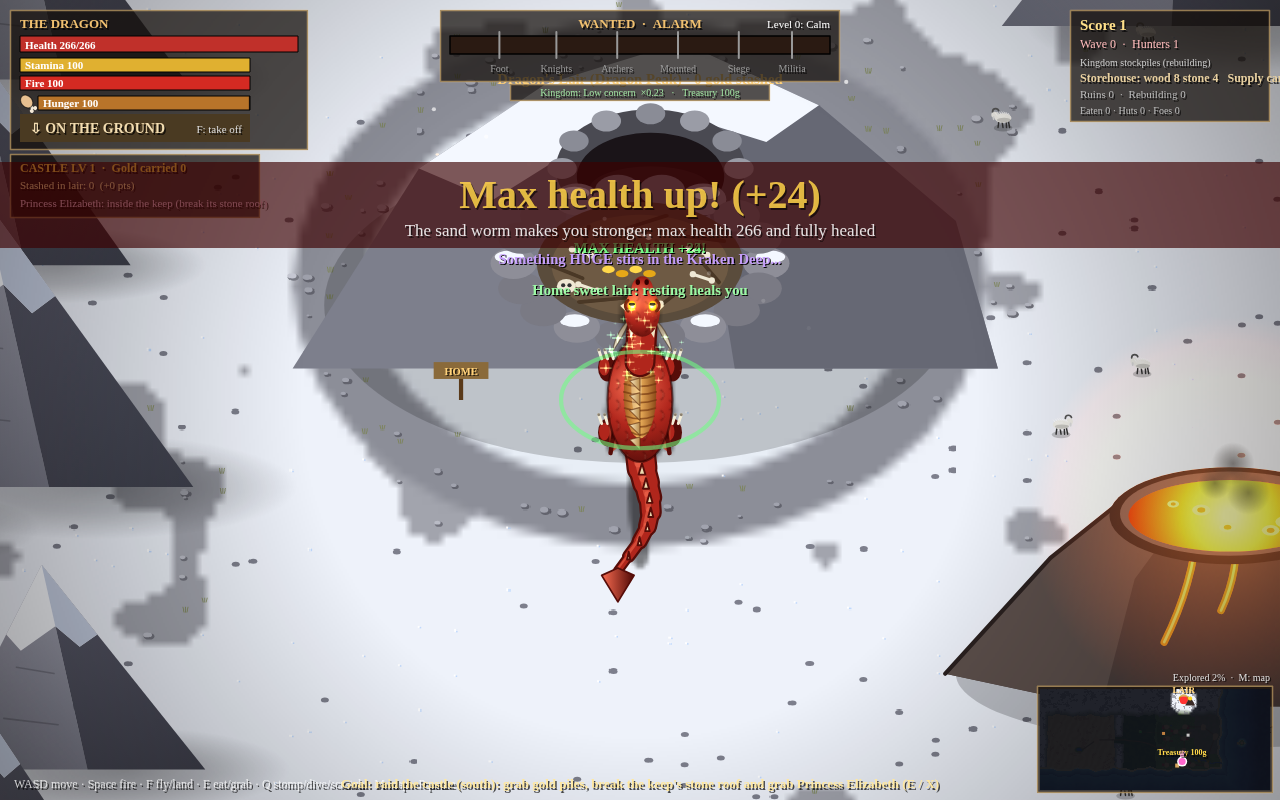
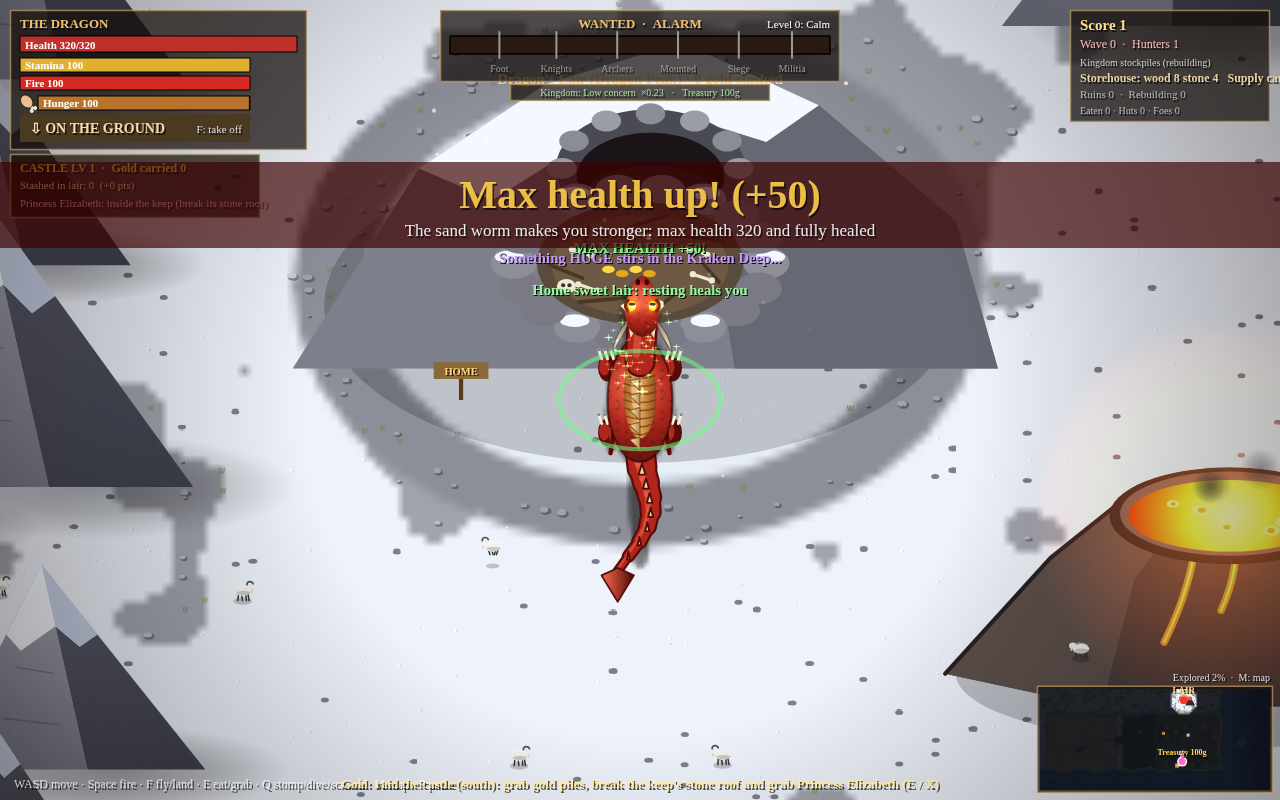
Kraken and sand worm give +50 max health each; Glutton: every whale's worth of food (scaling 1, 2, 3... whales) gives +5 max health, with a progress bar in the pause menu and Tally; capped health bar

diff --git a/index.html b/index.html
@@ -3286,9 +3286,10 @@ function pmBtn(x,y,w,h,label,f,on,col){panel(x,y,w,h);if(on){ctx.strokeStyle='#f
 function drawPM(){ctx.setTransform(DPR,0,0,DPR,0,0);const S=SAFE,touch=TOUCH.on;PM.hit=[];
   ctx.fillStyle='rgba(6,4,10,.66)';ctx.fillRect(0,0,VW,VH);
   const aw=VW-S.l-S.r,ah=VH-S.t-S.b,W=Math.min(aw-16,PM.scr==='tally'?680:600),x0=S.l+(aw-W)/2,cx=x0+W/2;
-  if(PM.scr==='main'){const rh=touch?46:38,H=86+PM_MAIN.length*(rh+8)+44,y0=S.t+Math.max(8,(ah-H)/2);panel(x0,y0,W,H);
+  if(PM.scr==='main'){const rh=touch?46:38,H=86+PM_MAIN.length*(rh+8)+72,y0=S.t+Math.max(8,(ah-H)/2);panel(x0,y0,W,H);
     txt('PAUSED',cx,y0+44,36,'#ffd24a','center');
     PM_MAIN.forEach(([l,a],i)=>pmBtn(x0+30,y0+70+i*(rh+8),W-60,rh,l,()=>{PM.sel=i;pmAct(a);},PM.sel===i));
+    if(typeof drawGlutBar==='function')drawGlutBar(x0+30,y0+H-52,W-60,18);
     txt(touch?'Tap a choice · II resumes':'↑/↓ + Enter (A) choose · P / Esc / Start resume · R / Back restart',cx,y0+H-16,touch?13:12,'#bbb','center',false);}
   else if(PM.scr==='tally')drawTallyScreen(x0,W,S,ah,touch);
   else drawSlots(x0,W,S,ah,touch);
@@ -3302,7 +3303,8 @@ function drawTallyScreen(x0,W,S,ah,touch){const cx=x0+W/2,y0=S.t+8,H=ah-16;panel
   const tg=tallyTotal('game'),ta=tallyTotal('all');
   txt(`Total gobbled / defeated:  this game ${tg}  ·  all-time ${ta}`,cx,y0+52,fs,'#fff','center');
   txt(`♛ Princess Elizabeth captured (not a kill, she's never hurt!):  this game ${TALLY.prGame}  ·  all-time ${TALLY.prAll}`,cx,y0+70,sm?10.5:12.5,'#ffb0dc','center',false);
-  const colA=x0+W-24,colG=x0+W-(sm?96:130),ly=y0+92;txt('This game',colG,ly,sm?11:13,'#f0c070','right');txt('All-time',colA,ly,sm?11:13,'#f0c070','right');
+  if(typeof drawGlutBar==='function')drawGlutBar(x0+16,y0+78,W-32,16);
+  const colA=x0+W-24,colG=x0+W-(sm?96:130),ly=y0+112;txt('This game',colG,ly,sm?11:13,'#f0c070','right');txt('All-time',colA,ly,sm?11:13,'#f0c070','right');
   const rh=touch?26:22,top=ly+8,foot=touch?56:46,listH=H-(top-y0)-foot,vis=Math.max(3,Math.floor(listH/rh));PM.vis=vis;PM.rh=rh;
   const rows=tallyRows(),mx=Math.max(0,rows.length-vis);PM.scroll=clamp(PM.scroll,0,mx);
   PM.hit.push({x:x0,y:top,w:W,h:vis*rh,list:1});
@@ -3640,7 +3642,7 @@ SFX_DEF.scratch=(a,B,o,t)=>{for(let i=0;i<3;i++)nz(a,B,o,t+i*.055,.09,'highpass'
 let HOARD_CARRY=null;
 {const _nl=nextLevel;nextLevel=function(){
   const stash=Math.max(0,Math.round(G.stash||0));
-  HOARD_CARRY={stash,raid:{n:RAID.n,thr:RAID.thr},trophies:TROPHIES.slice(),hpBonus:D.hpBonus||0,hpUps:D.hpUps||0};
+  HOARD_CARRY={stash,raid:{n:RAID.n,thr:RAID.thr},trophies:TROPHIES.slice(),hpBonus:D.hpBonus||0,hpUps:D.hpUps||0,feastBonus:D.feastBonus||0,food:D.food||0,glutN:D.glutN||0};
   G.bank-=stash*5; // the carried hoard keeps scoring 5/gold from the new level's score, so don't bank it twice
   let r;try{r=_nl.apply(this,arguments);}finally{HOARD_CARRY=null;}
   if(stash>0){const msg=`Hoard carried over: ${stash} gold`;G.hoardCarry=stash;
@@ -3648,6 +3650,7 @@ let HOARD_CARRY=null;
     float(LAIR.x,LAIR.y-80,msg,'#ffd84a');if(typeof showToast==='function')showToast('💰 '+msg);}
   return r;};}
 {const _ng=newGame;newGame=function(){const c=HOARD_CARRY;const r=_ng.apply(this,arguments);
+  if(c){D.food=c.food||0;D.glutN=c.glutN||0;D.feastBonus=c.feastBonus||0;}
   if(c&&c.hpBonus>0){D.hpBonus=c.hpBonus;D.hpUps=c.hpUps;D.baseMaxHp=D.maxHp;D.maxHp+=c.hpBonus;D.hp=D.maxHp;} // monster-feast max-health bonus stays on the same life
   if(c){G.stash=c.stash;G.hoardCarry=c.stash;if(typeof HOARD!=='undefined'){HOARD.shown=c.stash;HOARD.bump=0;}
     RAID.n=c.raid.n;RAID.thr=c.raid.thr;RAID.cd=Math.max(RAID.cd,45);RAID.cur=null; // thresholds already passed stay passed
@@ -3675,16 +3678,51 @@ function drawFireBar(x,y,w,h){bar(x,y,w,h,D.fire/(D.maxFire||100),fireBarCol(),f
 {const _dt=drawTouch;drawTouch=function(){_dt.apply(this,arguments);if(!TOUCH.on||scene!=='play'||!G||G.over||G.won||!TOUCH.btns)return;const o=TOUCH.btns.find(b=>b.id==='fire');if(!o||D.maxFire===undefined)return;
   const f=clamp(D.fire/D.maxFire,0,1);ctx.lineWidth=6;ctx.strokeStyle='rgba(0,0,0,.45)';ctx.beginPath();ctx.arc(o.x,o.y,o.r+7,0,TAU);ctx.stroke();
   ctx.strokeStyle=fireBarCol();ctx.beginPath();ctx.arc(o.x,o.y,o.r+7,-Math.PI/2,-Math.PI/2+TAU*f);ctx.stroke();};}
-// ======================= MONSTER FEAST: eating the giant squid (kraken) or a sand worm permanently raises max health on this life =======================
-const MH={frac:.10};
-function maxHpUp(what,x,y){const gain=Math.max(10,Math.round(D.maxHp*MH.frac));D.hpBonus=(D.hpBonus||0)+gain;D.hpUps=(D.hpUps||0)+1;D.maxHp+=gain;D.hp=D.maxHp;D.healFx=1;
+// ======================= MONSTER FEAST + GLUTTON: permanent max-health growth on this life =======================
+// Eating the giant squid (kraken) or a sand worm: +50 max health each, plus a full heal.
+// Glutton: food eaten (sized by how big / filling each thing is) fills "whale's worth" milestones. Each one gives +5 max health;
+// the 1st needs 1 whale's worth, the 2nd 2 more whales, the 3rd 3 more... (a real whale = exactly one whale's worth).
+// All of it stays on the same life across castle levels and resets on death / new game (D.* fields are in saves).
+const MH={feast:50};
+const GLUT={gain:5};
+// food values (≈ size / how filling it is); the milestone unit is one whale
+const FOOD={whale:75,
+  villager:10,shopper:10,farmer:10,logger:10,miner:10,mason:10,trader:10,keeper:10,taxman:10,carter:10,militia:10,hunter:18,sailor:10,islander:12,pirate:12,crew:10,
+  foot:12,knight:18,archer:12,cavalry:40,champ:30,
+  chicken:5,rabbit:6,crow:3,sparrow:2,gull:3,duck:5,goose:6,hawk:4,eagle:6,fish:4,school:5,lakeschool:5,crab:3,beaver:7,lizard:4,snake:5,dscorp:4,
+  fox:8,dfox:8,wolf:12,goat:12,mgoat:15,sheep:14,pig:16,boar:16,deer:20,seal:22,iseal:24,shark:20,horse:24,carthorse:24,cow:26,camel:30,cougar:32,bear:40,
+  sandworm:100,squid:150};
+const WHALE=FOOD.whale;
+function foodOf(k){return FOOD[k]!==undefined?FOOD[k]:(HEAL[k]||SEAHEAL[k]||10);}
+function foodKeyU(u){if(!u)return null;if(u.type==='sea')return u.kind;if(u.type==='knight'&&u.champ)return'champ';return typeof tallyKeyU==='function'?tallyKeyU(u):(u.species||u.type);}
+// milestone n (1-based) needs n whales; total food for the first n milestones = WHALE*n(n+1)/2
+function glutCum(n){return WHALE*n*(n+1)/2;}
+function glutProg(){const n=D.glutN||0,have=Math.max(0,(D.food||0)-glutCum(n))/WHALE,need=n+1;return{n,have:Math.min(have,need),need,frac:Math.min(1,have/need)};}
+function glutLine(){const p=glutProg();return`🐋 Glutton · Next +${GLUT.gain} max health: ${Math.floor(p.frac*100)}%  ·  earned +${p.n*GLUT.gain}`;}
+function drawGlutBar(x,y,w,h){const p=glutProg();ctx.fillStyle='rgba(0,0,0,.45)';ctx.fillRect(x,y,w,h);ctx.fillStyle='#4fb3e8';ctx.fillRect(x+1,y+1,(w-2)*p.frac,h-2);
+  ctx.strokeStyle='rgba(255,255,255,.5)';ctx.lineWidth=1;ctx.strokeRect(x+.5,y+.5,w-1,h-1);txt(glutLine(),x+w/2,y+h-4,Math.min(12.5,h-3),'#fff','center',false);}
+function mhBanner(text,sub,t){const b=G.banner;
+  if(b&&b.t>1.2&&/^Max health up/.test(b.text||'')){b.sub=(b.sub?b.sub+'  ·  ':'')+text+' (now '+D.maxHp+')';return;}
+  if(b&&b.t>1.2&&!/^A whale/.test(b.text||'')){if(typeof showToast==='function')showToast('❤ '+text);return;}
+  G.banner={text,sub,t:t||4.5};}
+function maxHpUp(what,x,y){const gain=MH.feast;D.hpBonus=(D.hpBonus||0)+gain;D.feastBonus=(D.feastBonus||0)+gain;D.hpUps=(D.hpUps||0)+1;D.maxHp+=gain;D.hp=D.maxHp;D.healFx=1;
   G.banner={text:`Max health up! (+${gain})`,sub:`${what} makes you stronger: max health ${D.maxHp} and fully healed`,t:4.5};
   float(D.x,D.y-heightOf()-130,`MAX HEALTH +${gain}!`,'#7aff8a');sparkle(D.x,D.y-heightOf(),30);if(typeof SFX!=='undefined'&&SFX.play)SFX.play('coin',D.x,D.y,1);}
-{const _ng=newGame;newGame=function(){const r=_ng.apply(this,arguments);if(D){D.baseMaxHp=D.maxHp-(D.hpBonus||0);if(!D.hpBonus){D.hpBonus=0;D.hpUps=0;}}return r;};}
-{const _es=eatSea;eatSea=function(u){const was=u&&u.dead,k=u&&u.kind;const r=_es.apply(this,arguments);if(u&&k==='squid'&&!was&&u.dead){float(u.x,u.y-60,'GULP! Calamari!','#ffd27a');maxHpUp('The giant squid');}return r;};}
-{const _eu=eatUnit;eatUnit=function(u){const was=u&&u.dead,s=u&&u.species;const r=_eu.apply(this,arguments);if(u&&s==='sandworm'&&!was&&u.dead){float(u.x,u.y-80,'GULP! Slurped the sand worm!','#ffd27a');maxHpUp('The sand worm');}return r;};}
-// health bar grows with the bonus (230px at base, longer per feast, capped so it fits the screen)
-function hpBarW(){const base=D.baseMaxHp||D.maxHp;return Math.round(Math.min(230*1.8,230*D.maxHp/base));}
+function glutEat(food){if(!D||G.over||!(food>0))return;D.food=Math.round(((D.food||0)+food)*100)/100;
+  while(D.food>=glutCum((D.glutN||0)+1)){D.glutN=(D.glutN||0)+1;const n=D.glutN;D.hpBonus=(D.hpBonus||0)+GLUT.gain;D.maxHp+=GLUT.gain;D.hp=Math.min(D.maxHp,D.hp+GLUT.gain);D.healFx=Math.max(D.healFx||0,.6);
+    mhBanner(`A whale's worth eaten! Max health +${GLUT.gain}`,`Max health ${D.maxHp}  ·  keep feasting: the next +${GLUT.gain} takes even more food`,3.5);
+    float(D.x,D.y-heightOf()-110,`WHALE'S WORTH! +${GLUT.gain} MAX HP`,'#9aff7a');sparkle(D.x,D.y-heightOf(),16);if(typeof SFX!=='undefined'&&SFX.play)SFX.play('gulp',D.x,D.y,.8);}}
+{const _ng=newGame;newGame=function(){const r=_ng.apply(this,arguments);if(D){D.baseMaxHp=D.maxHp-(D.hpBonus||0);if(!D.hpBonus){D.hpBonus=0;D.hpUps=0;D.feastBonus=0;}if(D.food===undefined){D.food=0;D.glutN=0;}}return r;};}
+{const _es=eatSea;eatSea=function(u){const was=u&&u.dead,k=u&&u.kind,n0=u&&u.n;const r=_es.apply(this,arguments);
+  if(u&&k==='squid'&&!was&&u.dead){float(u.x,u.y-60,'GULP! Calamari!','#ffd27a');maxHpUp('The giant squid');}
+  if(u&&((n0!==undefined&&u.n<n0)||(!was&&u.dead)))glutEat(foodOf(k));return r;};}
+{const _eu=eatUnit;eatUnit=function(u){const sea=u&&u.type==='sea',was=u&&u.dead,s=u&&u.species;const r=_eu.apply(this,arguments);
+  if(u&&s==='sandworm'&&!was&&u.dead){float(u.x,u.y-80,'GULP! Slurped the sand worm!','#ffd27a');maxHpUp('The sand worm');}
+  if(u&&!sea&&!was&&u.dead)glutEat(foodOf(foodKeyU(u)));return r;};} // sea units are counted inside eatSea
+{const _eb=tryEatBird;tryEatBird=function(){const live=birds.filter(b=>!b.dead);const r=_eb.apply(this,arguments);let f=0;for(const b of live)if(b.dead)f+=foodOf(b.kind);glutEat(f);return r;};}
+// health bar: grows with the bonus but the on-screen width is capped (the number is always shown in the bar)
+const HPBAR={base:230,max:400};
+function hpBarW(){const base=D.baseMaxHp||D.maxHp,f=Math.max(1,D.maxHp/base);return Math.round(Math.min(HPBAR.max,HPBAR.base*Math.sqrt(f)));}
 // ======================= NORTHERN GOAT HERDS: extra mountain-goat herds (and the mountain lions that hunt them) on the snowy slopes north of the desert =======================
 // Wild animals: eating them never raises the alarm (isWild), they count in the Dragon's Tally, and they respawn slowly.
 const GH={centers:[[-8500,-950],[-6700,-1350],[-4900,-850]],goats:[4,6],lions:2,goatEvery:22,lionEvery:60};

diff --git a/partMH.js b/partMH.js
@@ -1,10 +1,45 @@
-// ======================= MONSTER FEAST: eating the giant squid (kraken) or a sand worm permanently raises max health on this life =======================
-const MH={frac:.10};
-function maxHpUp(what,x,y){const gain=Math.max(10,Math.round(D.maxHp*MH.frac));D.hpBonus=(D.hpBonus||0)+gain;D.hpUps=(D.hpUps||0)+1;D.maxHp+=gain;D.hp=D.maxHp;D.healFx=1;
+// ======================= MONSTER FEAST + GLUTTON: permanent max-health growth on this life =======================
+// Eating the giant squid (kraken) or a sand worm: +50 max health each, plus a full heal.
+// Glutton: food eaten (sized by how big / filling each thing is) fills "whale's worth" milestones. Each one gives +5 max health;
+// the 1st needs 1 whale's worth, the 2nd 2 more whales, the 3rd 3 more... (a real whale = exactly one whale's worth).
+// All of it stays on the same life across castle levels and resets on death / new game (D.* fields are in saves).
+const MH={feast:50};
+const GLUT={gain:5};
+// food values (≈ size / how filling it is); the milestone unit is one whale
+const FOOD={whale:75,
+  villager:10,shopper:10,farmer:10,logger:10,miner:10,mason:10,trader:10,keeper:10,taxman:10,carter:10,militia:10,hunter:18,sailor:10,islander:12,pirate:12,crew:10,
+  foot:12,knight:18,archer:12,cavalry:40,champ:30,
+  chicken:5,rabbit:6,crow:3,sparrow:2,gull:3,duck:5,goose:6,hawk:4,eagle:6,fish:4,school:5,lakeschool:5,crab:3,beaver:7,lizard:4,snake:5,dscorp:4,
+  fox:8,dfox:8,wolf:12,goat:12,mgoat:15,sheep:14,pig:16,boar:16,deer:20,seal:22,iseal:24,shark:20,horse:24,carthorse:24,cow:26,camel:30,cougar:32,bear:40,
+  sandworm:100,squid:150};
+const WHALE=FOOD.whale;
+function foodOf(k){return FOOD[k]!==undefined?FOOD[k]:(HEAL[k]||SEAHEAL[k]||10);}
+function foodKeyU(u){if(!u)return null;if(u.type==='sea')return u.kind;if(u.type==='knight'&&u.champ)return'champ';return typeof tallyKeyU==='function'?tallyKeyU(u):(u.species||u.type);}
+// milestone n (1-based) needs n whales; total food for the first n milestones = WHALE*n(n+1)/2
+function glutCum(n){return WHALE*n*(n+1)/2;}
+function glutProg(){const n=D.glutN||0,have=Math.max(0,(D.food||0)-glutCum(n))/WHALE,need=n+1;return{n,have:Math.min(have,need),need,frac:Math.min(1,have/need)};}
+function glutLine(){const p=glutProg();return`🐋 Glutton · Next +${GLUT.gain} max health: ${Math.floor(p.frac*100)}%  ·  earned +${p.n*GLUT.gain}`;}
+function drawGlutBar(x,y,w,h){const p=glutProg();ctx.fillStyle='rgba(0,0,0,.45)';ctx.fillRect(x,y,w,h);ctx.fillStyle='#4fb3e8';ctx.fillRect(x+1,y+1,(w-2)*p.frac,h-2);
+  ctx.strokeStyle='rgba(255,255,255,.5)';ctx.lineWidth=1;ctx.strokeRect(x+.5,y+.5,w-1,h-1);txt(glutLine(),x+w/2,y+h-4,Math.min(12.5,h-3),'#fff','center',false);}
+function mhBanner(text,sub,t){const b=G.banner;
+  if(b&&b.t>1.2&&/^Max health up/.test(b.text||'')){b.sub=(b.sub?b.sub+'  ·  ':'')+text+' (now '+D.maxHp+')';return;}
+  if(b&&b.t>1.2&&!/^A whale/.test(b.text||'')){if(typeof showToast==='function')showToast('❤ '+text);return;}
+  G.banner={text,sub,t:t||4.5};}
+function maxHpUp(what,x,y){const gain=MH.feast;D.hpBonus=(D.hpBonus||0)+gain;D.feastBonus=(D.feastBonus||0)+gain;D.hpUps=(D.hpUps||0)+1;D.maxHp+=gain;D.hp=D.maxHp;D.healFx=1;
   G.banner={text:`Max health up! (+${gain})`,sub:`${what} makes you stronger: max health ${D.maxHp} and fully healed`,t:4.5};
   float(D.x,D.y-heightOf()-130,`MAX HEALTH +${gain}!`,'#7aff8a');sparkle(D.x,D.y-heightOf(),30);if(typeof SFX!=='undefined'&&SFX.play)SFX.play('coin',D.x,D.y,1);}
-{const _ng=newGame;newGame=function(){const r=_ng.apply(this,arguments);if(D){D.baseMaxHp=D.maxHp-(D.hpBonus||0);if(!D.hpBonus){D.hpBonus=0;D.hpUps=0;}}return r;};}
-{const _es=eatSea;eatSea=function(u){const was=u&&u.dead,k=u&&u.kind;const r=_es.apply(this,arguments);if(u&&k==='squid'&&!was&&u.dead){float(u.x,u.y-60,'GULP! Calamari!','#ffd27a');maxHpUp('The giant squid');}return r;};}
-{const _eu=eatUnit;eatUnit=function(u){const was=u&&u.dead,s=u&&u.species;const r=_eu.apply(this,arguments);if(u&&s==='sandworm'&&!was&&u.dead){float(u.x,u.y-80,'GULP! Slurped the sand worm!','#ffd27a');maxHpUp('The sand worm');}return r;};}
-// health bar grows with the bonus (230px at base, longer per feast, capped so it fits the screen)
-function hpBarW(){const base=D.baseMaxHp||D.maxHp;return Math.round(Math.min(230*1.8,230*D.maxHp/base));}
+function glutEat(food){if(!D||G.over||!(food>0))return;D.food=Math.round(((D.food||0)+food)*100)/100;
+  while(D.food>=glutCum((D.glutN||0)+1)){D.glutN=(D.glutN||0)+1;const n=D.glutN;D.hpBonus=(D.hpBonus||0)+GLUT.gain;D.maxHp+=GLUT.gain;D.hp=Math.min(D.maxHp,D.hp+GLUT.gain);D.healFx=Math.max(D.healFx||0,.6);
+    mhBanner(`A whale's worth eaten! Max health +${GLUT.gain}`,`Max health ${D.maxHp}  ·  keep feasting: the next +${GLUT.gain} takes even more food`,3.5);
+    float(D.x,D.y-heightOf()-110,`WHALE'S WORTH! +${GLUT.gain} MAX HP`,'#9aff7a');sparkle(D.x,D.y-heightOf(),16);if(typeof SFX!=='undefined'&&SFX.play)SFX.play('gulp',D.x,D.y,.8);}}
+{const _ng=newGame;newGame=function(){const r=_ng.apply(this,arguments);if(D){D.baseMaxHp=D.maxHp-(D.hpBonus||0);if(!D.hpBonus){D.hpBonus=0;D.hpUps=0;D.feastBonus=0;}if(D.food===undefined){D.food=0;D.glutN=0;}}return r;};}
+{const _es=eatSea;eatSea=function(u){const was=u&&u.dead,k=u&&u.kind,n0=u&&u.n;const r=_es.apply(this,arguments);
+  if(u&&k==='squid'&&!was&&u.dead){float(u.x,u.y-60,'GULP! Calamari!','#ffd27a');maxHpUp('The giant squid');}
+  if(u&&((n0!==undefined&&u.n<n0)||(!was&&u.dead)))glutEat(foodOf(k));return r;};}
+{const _eu=eatUnit;eatUnit=function(u){const sea=u&&u.type==='sea',was=u&&u.dead,s=u&&u.species;const r=_eu.apply(this,arguments);
+  if(u&&s==='sandworm'&&!was&&u.dead){float(u.x,u.y-80,'GULP! Slurped the sand worm!','#ffd27a');maxHpUp('The sand worm');}
+  if(u&&!sea&&!was&&u.dead)glutEat(foodOf(foodKeyU(u)));return r;};} // sea units are counted inside eatSea
+{const _eb=tryEatBird;tryEatBird=function(){const live=birds.filter(b=>!b.dead);const r=_eb.apply(this,arguments);let f=0;for(const b of live)if(b.dead)f+=foodOf(b.kind);glutEat(f);return r;};}
+// health bar: grows with the bonus but the on-screen width is capped (the number is always shown in the bar)
+const HPBAR={base:230,max:400};
+function hpBarW(){const base=D.baseMaxHp||D.maxHp,f=Math.max(1,D.maxHp/base);return Math.round(Math.min(HPBAR.max,HPBAR.base*Math.sqrt(f)));}

diff --git a/partY.js b/partY.js
@@ -92,9 +92,10 @@ function pmBtn(x,y,w,h,label,f,on,col){panel(x,y,w,h);if(on){ctx.strokeStyle='#f
 function drawPM(){ctx.setTransform(DPR,0,0,DPR,0,0);const S=SAFE,touch=TOUCH.on;PM.hit=[];
   ctx.fillStyle='rgba(6,4,10,.66)';ctx.fillRect(0,0,VW,VH);
   const aw=VW-S.l-S.r,ah=VH-S.t-S.b,W=Math.min(aw-16,PM.scr==='tally'?680:600),x0=S.l+(aw-W)/2,cx=x0+W/2;
-  if(PM.scr==='main'){const rh=touch?46:38,H=86+PM_MAIN.length*(rh+8)+44,y0=S.t+Math.max(8,(ah-H)/2);panel(x0,y0,W,H);
+  if(PM.scr==='main'){const rh=touch?46:38,H=86+PM_MAIN.length*(rh+8)+72,y0=S.t+Math.max(8,(ah-H)/2);panel(x0,y0,W,H);
     txt('PAUSED',cx,y0+44,36,'#ffd24a','center');
     PM_MAIN.forEach(([l,a],i)=>pmBtn(x0+30,y0+70+i*(rh+8),W-60,rh,l,()=>{PM.sel=i;pmAct(a);},PM.sel===i));
+    if(typeof drawGlutBar==='function')drawGlutBar(x0+30,y0+H-52,W-60,18);
     txt(touch?'Tap a choice · II resumes':'↑/↓ + Enter (A) choose · P / Esc / Start resume · R / Back restart',cx,y0+H-16,touch?13:12,'#bbb','center',false);}
   else if(PM.scr==='tally')drawTallyScreen(x0,W,S,ah,touch);
   else drawSlots(x0,W,S,ah,touch);
@@ -108,7 +109,8 @@ function drawTallyScreen(x0,W,S,ah,touch){const cx=x0+W/2,y0=S.t+8,H=ah-16;panel
   const tg=tallyTotal('game'),ta=tallyTotal('all');
   txt(`Total gobbled / defeated:  this game ${tg}  ·  all-time ${ta}`,cx,y0+52,fs,'#fff','center');
   txt(`♛ Princess Elizabeth captured (not a kill, she's never hurt!):  this game ${TALLY.prGame}  ·  all-time ${TALLY.prAll}`,cx,y0+70,sm?10.5:12.5,'#ffb0dc','center',false);
-  const colA=x0+W-24,colG=x0+W-(sm?96:130),ly=y0+92;txt('This game',colG,ly,sm?11:13,'#f0c070','right');txt('All-time',colA,ly,sm?11:13,'#f0c070','right');
+  if(typeof drawGlutBar==='function')drawGlutBar(x0+16,y0+78,W-32,16);
+  const colA=x0+W-24,colG=x0+W-(sm?96:130),ly=y0+112;txt('This game',colG,ly,sm?11:13,'#f0c070','right');txt('All-time',colA,ly,sm?11:13,'#f0c070','right');
   const rh=touch?26:22,top=ly+8,foot=touch?56:46,listH=H-(top-y0)-foot,vis=Math.max(3,Math.floor(listH/rh));PM.vis=vis;PM.rh=rh;
   const rows=tallyRows(),mx=Math.max(0,rows.length-vis);PM.scroll=clamp(PM.scroll,0,mx);
   PM.hit.push({x:x0,y:top,w:W,h:vis*rh,list:1});

diff --git a/partHC.js b/partHC.js
@@ -3,7 +3,7 @@
 let HOARD_CARRY=null;
 {const _nl=nextLevel;nextLevel=function(){
   const stash=Math.max(0,Math.round(G.stash||0));
-  HOARD_CARRY={stash,raid:{n:RAID.n,thr:RAID.thr},trophies:TROPHIES.slice(),hpBonus:D.hpBonus||0,hpUps:D.hpUps||0};
+  HOARD_CARRY={stash,raid:{n:RAID.n,thr:RAID.thr},trophies:TROPHIES.slice(),hpBonus:D.hpBonus||0,hpUps:D.hpUps||0,feastBonus:D.feastBonus||0,food:D.food||0,glutN:D.glutN||0};
   G.bank-=stash*5; // the carried hoard keeps scoring 5/gold from the new level's score, so don't bank it twice
   let r;try{r=_nl.apply(this,arguments);}finally{HOARD_CARRY=null;}
   if(stash>0){const msg=`Hoard carried over: ${stash} gold`;G.hoardCarry=stash;
@@ -11,6 +11,7 @@ let HOARD_CARRY=null;
     float(LAIR.x,LAIR.y-80,msg,'#ffd84a');if(typeof showToast==='function')showToast('💰 '+msg);}
   return r;};}
 {const _ng=newGame;newGame=function(){const c=HOARD_CARRY;const r=_ng.apply(this,arguments);
+  if(c){D.food=c.food||0;D.glutN=c.glutN||0;D.feastBonus=c.feastBonus||0;}
   if(c&&c.hpBonus>0){D.hpBonus=c.hpBonus;D.hpUps=c.hpUps;D.baseMaxHp=D.maxHp;D.maxHp+=c.hpBonus;D.hp=D.maxHp;} // monster-feast max-health bonus stays on the same life
   if(c){G.stash=c.stash;G.hoardCarry=c.stash;if(typeof HOARD!=='undefined'){HOARD.shown=c.stash;HOARD.bump=0;}
     RAID.n=c.raid.n;RAID.thr=c.raid.thr;RAID.cd=Math.max(RAID.cd,45);RAID.cur=null; // thresholds already passed stay passed

diff --git a/README.md b/README.md
@@ -34,7 +34,7 @@ cat part1.html partD0.js partW.js partF.js part2.js part3.js part4.js part5.js p
 - partCS.js: claw scratch while swimming
 - partHC.js: the hoard and trophies carry over between castle levels
 - partFM.js: the FIRE meter
-- partMH.js: eating the kraken or a sand worm raises max health
+- partMH.js: max-health growth: monster feasts (kraken / sand worm +50) and Glutton food milestones (+5)
 - partGH.js: northern mountain-goat herds and the mountain lions that hunt them
 - partKM.js: the kingdom-wide militia (every villager arms up and guards their own post)
 - part6.js: main loop, HUD, minimap and world map, title screen
@@ -184,7 +184,9 @@ All sound is generated in code with Web Audio; there are no audio files. The mus
 
 ## The dragon's body
 - **FIRE meter:** fire breath has its own red bar. It drains while you breathe fire and refills when you stop. If it runs dry, you have to catch your breath before it works again.
-- **Max health grows:** eating the giant squid (kraken) or a sand worm permanently raises max health by 10% and fully heals you, for the rest of that life.
+- **Max health grows (Monster feast):** eating the giant squid (kraken) or a sand worm gives **+50 permanent max health** each, plus a full heal and a *"Max health up! (+50)"* banner.
+- **Glutton:** everything you eat adds food (about its size): villager 10, knight 18, mounted knight 40, chicken 5, sheep 14, goat 12, mountain goat 15, cow 26, camel 30, bear 40, fish bite 5, shark 20, **whale 75**, sand worm 100, kraken 150, and so on. Each *whale's worth* of food (75) fills a milestone for **+5 permanent max health** (*"A whale's worth eaten! Max health +5"*). The cost scales: the 1st +5 needs 1 whale's worth, the 2nd 2 more, the 3rd 3 more, and it never stops. The pause menu and the Tally show a *"Next +5: 47%"* progress bar.
+- Both bonuses stay on the same life across castle levels, reset on death or a new game, and are kept in saves. The health bar grows with max health but is capped on screen, and always shows the number.
 - **Claw scratch:** while swimming, the stomp button (Q / Shift, pad B, or touch, which reads SCRATCH) becomes a quick claw swipe that hits boats, sea creatures and the squid.
 - **The hoard carries over:** your lair's gold pile and trophy banners stay when you move up a castle level. They reset only on a new game or when the dragon dies.
 
